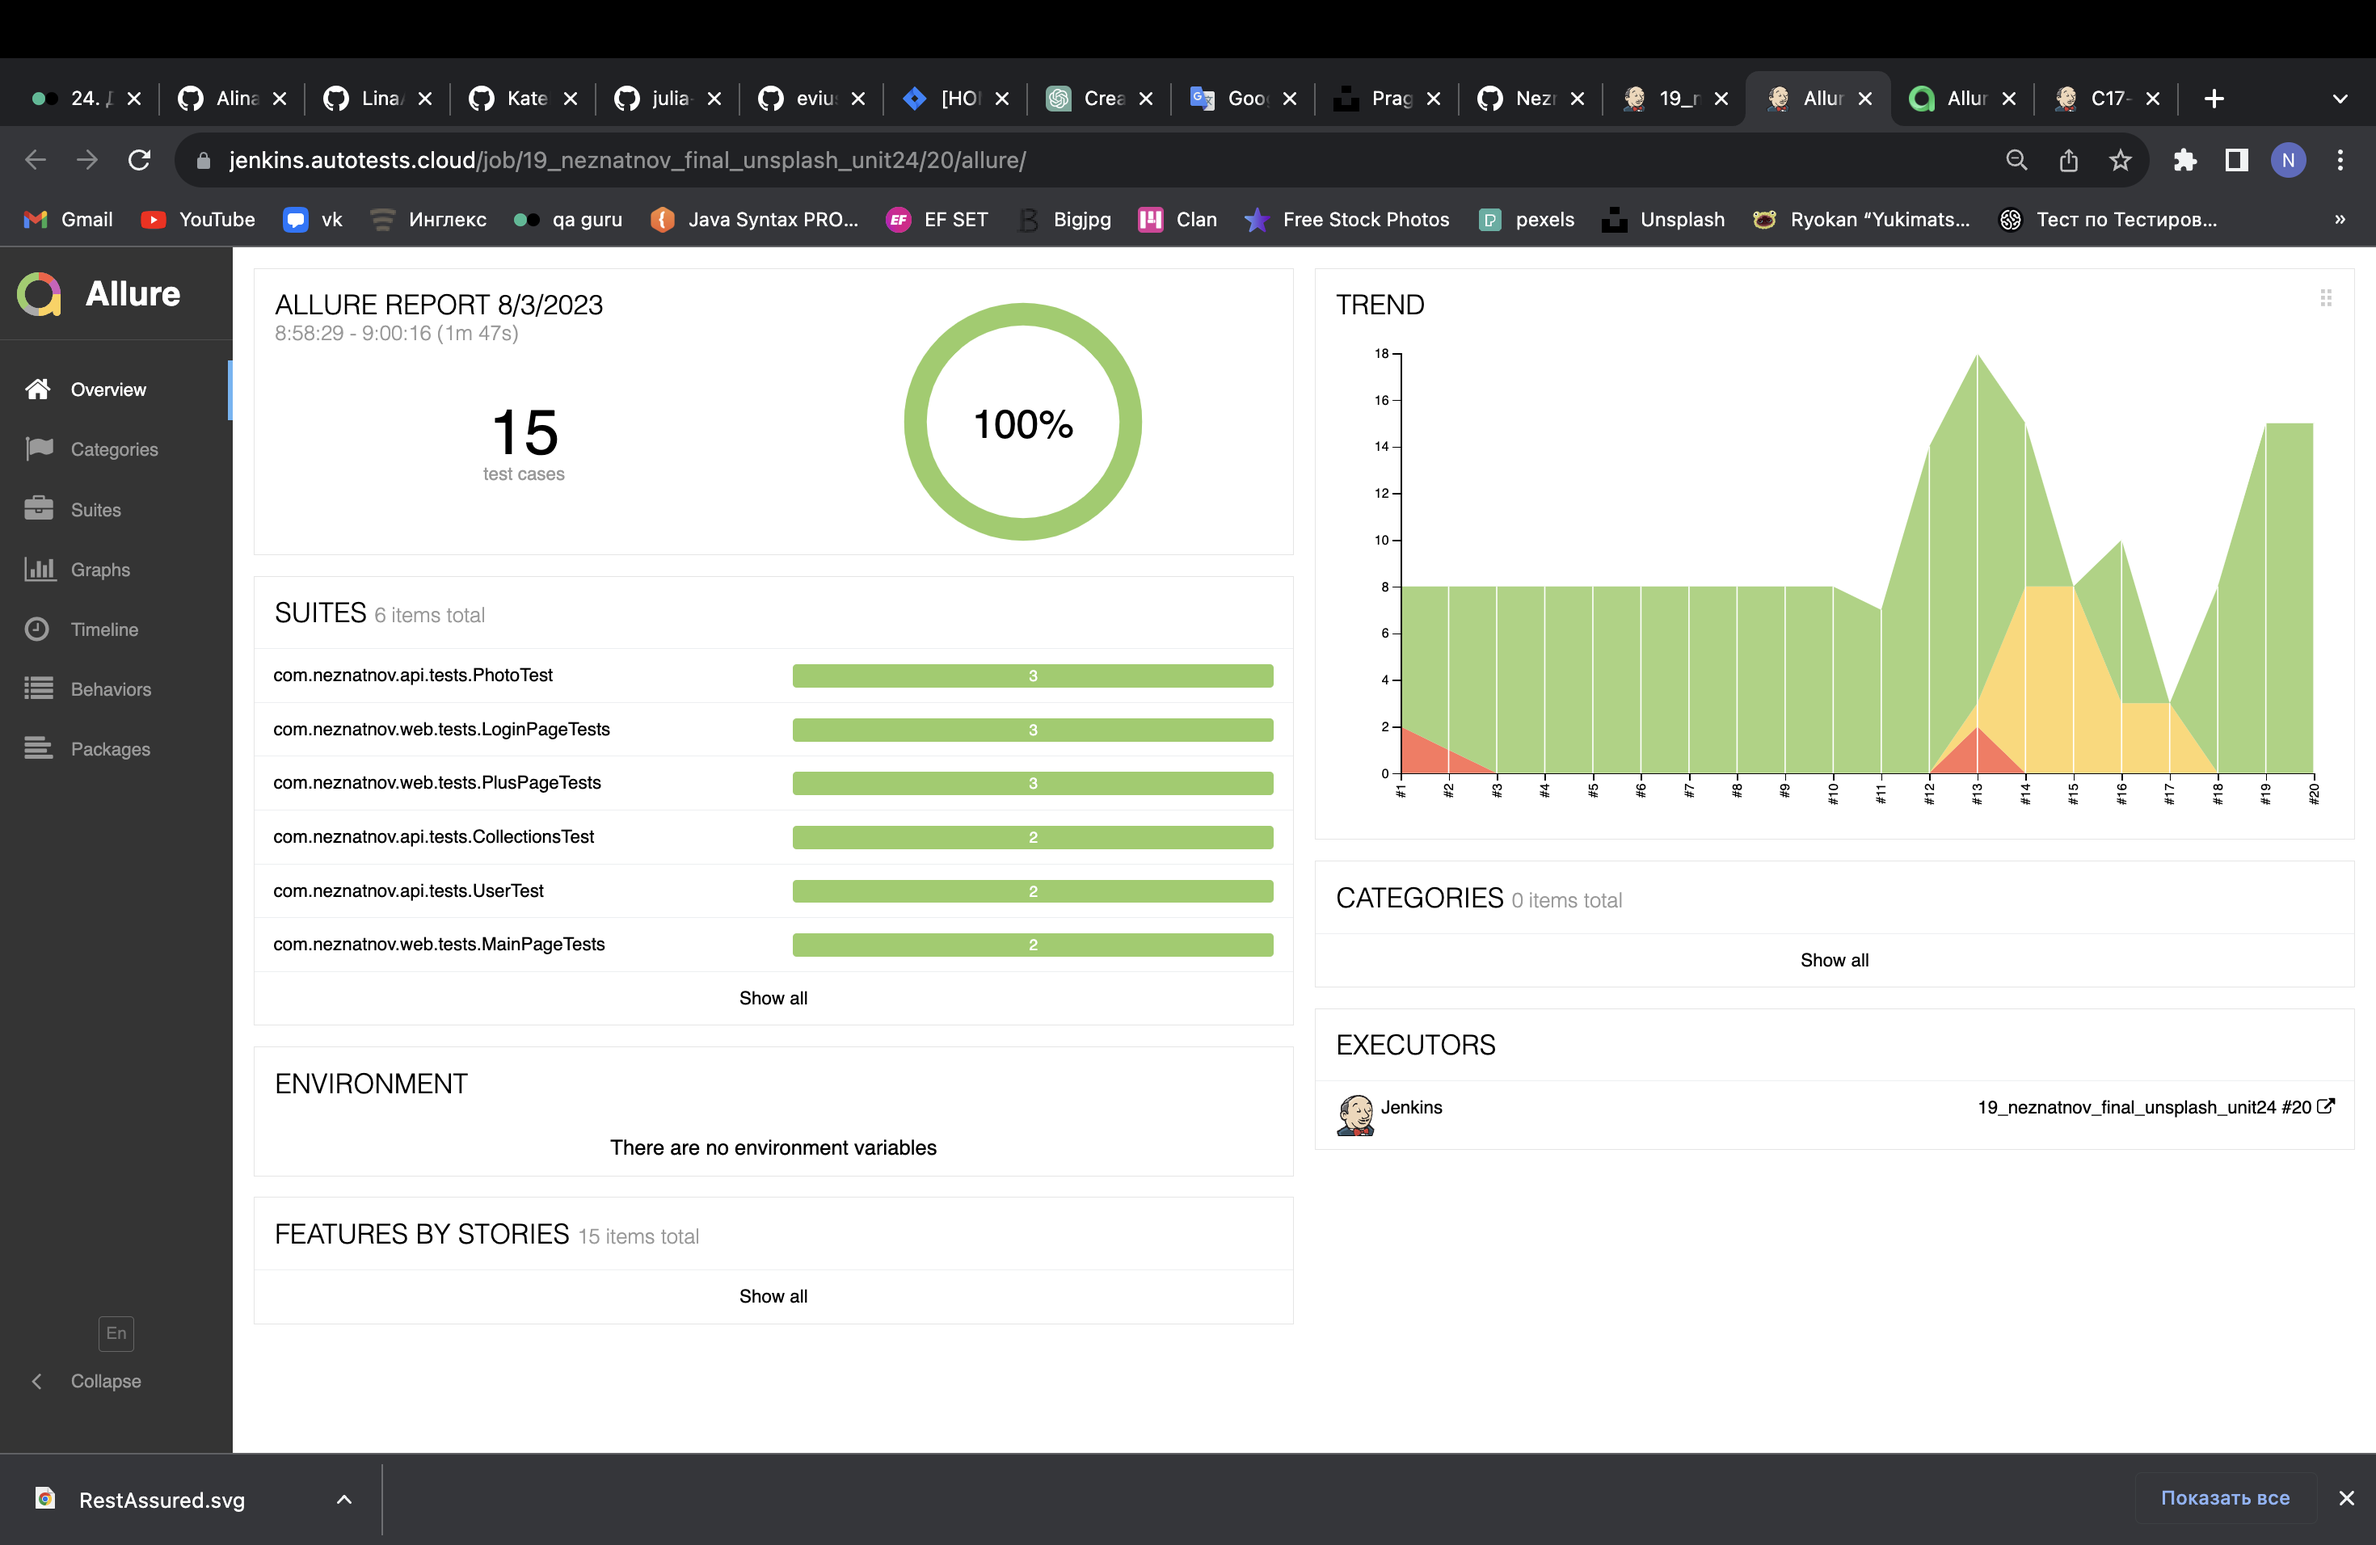
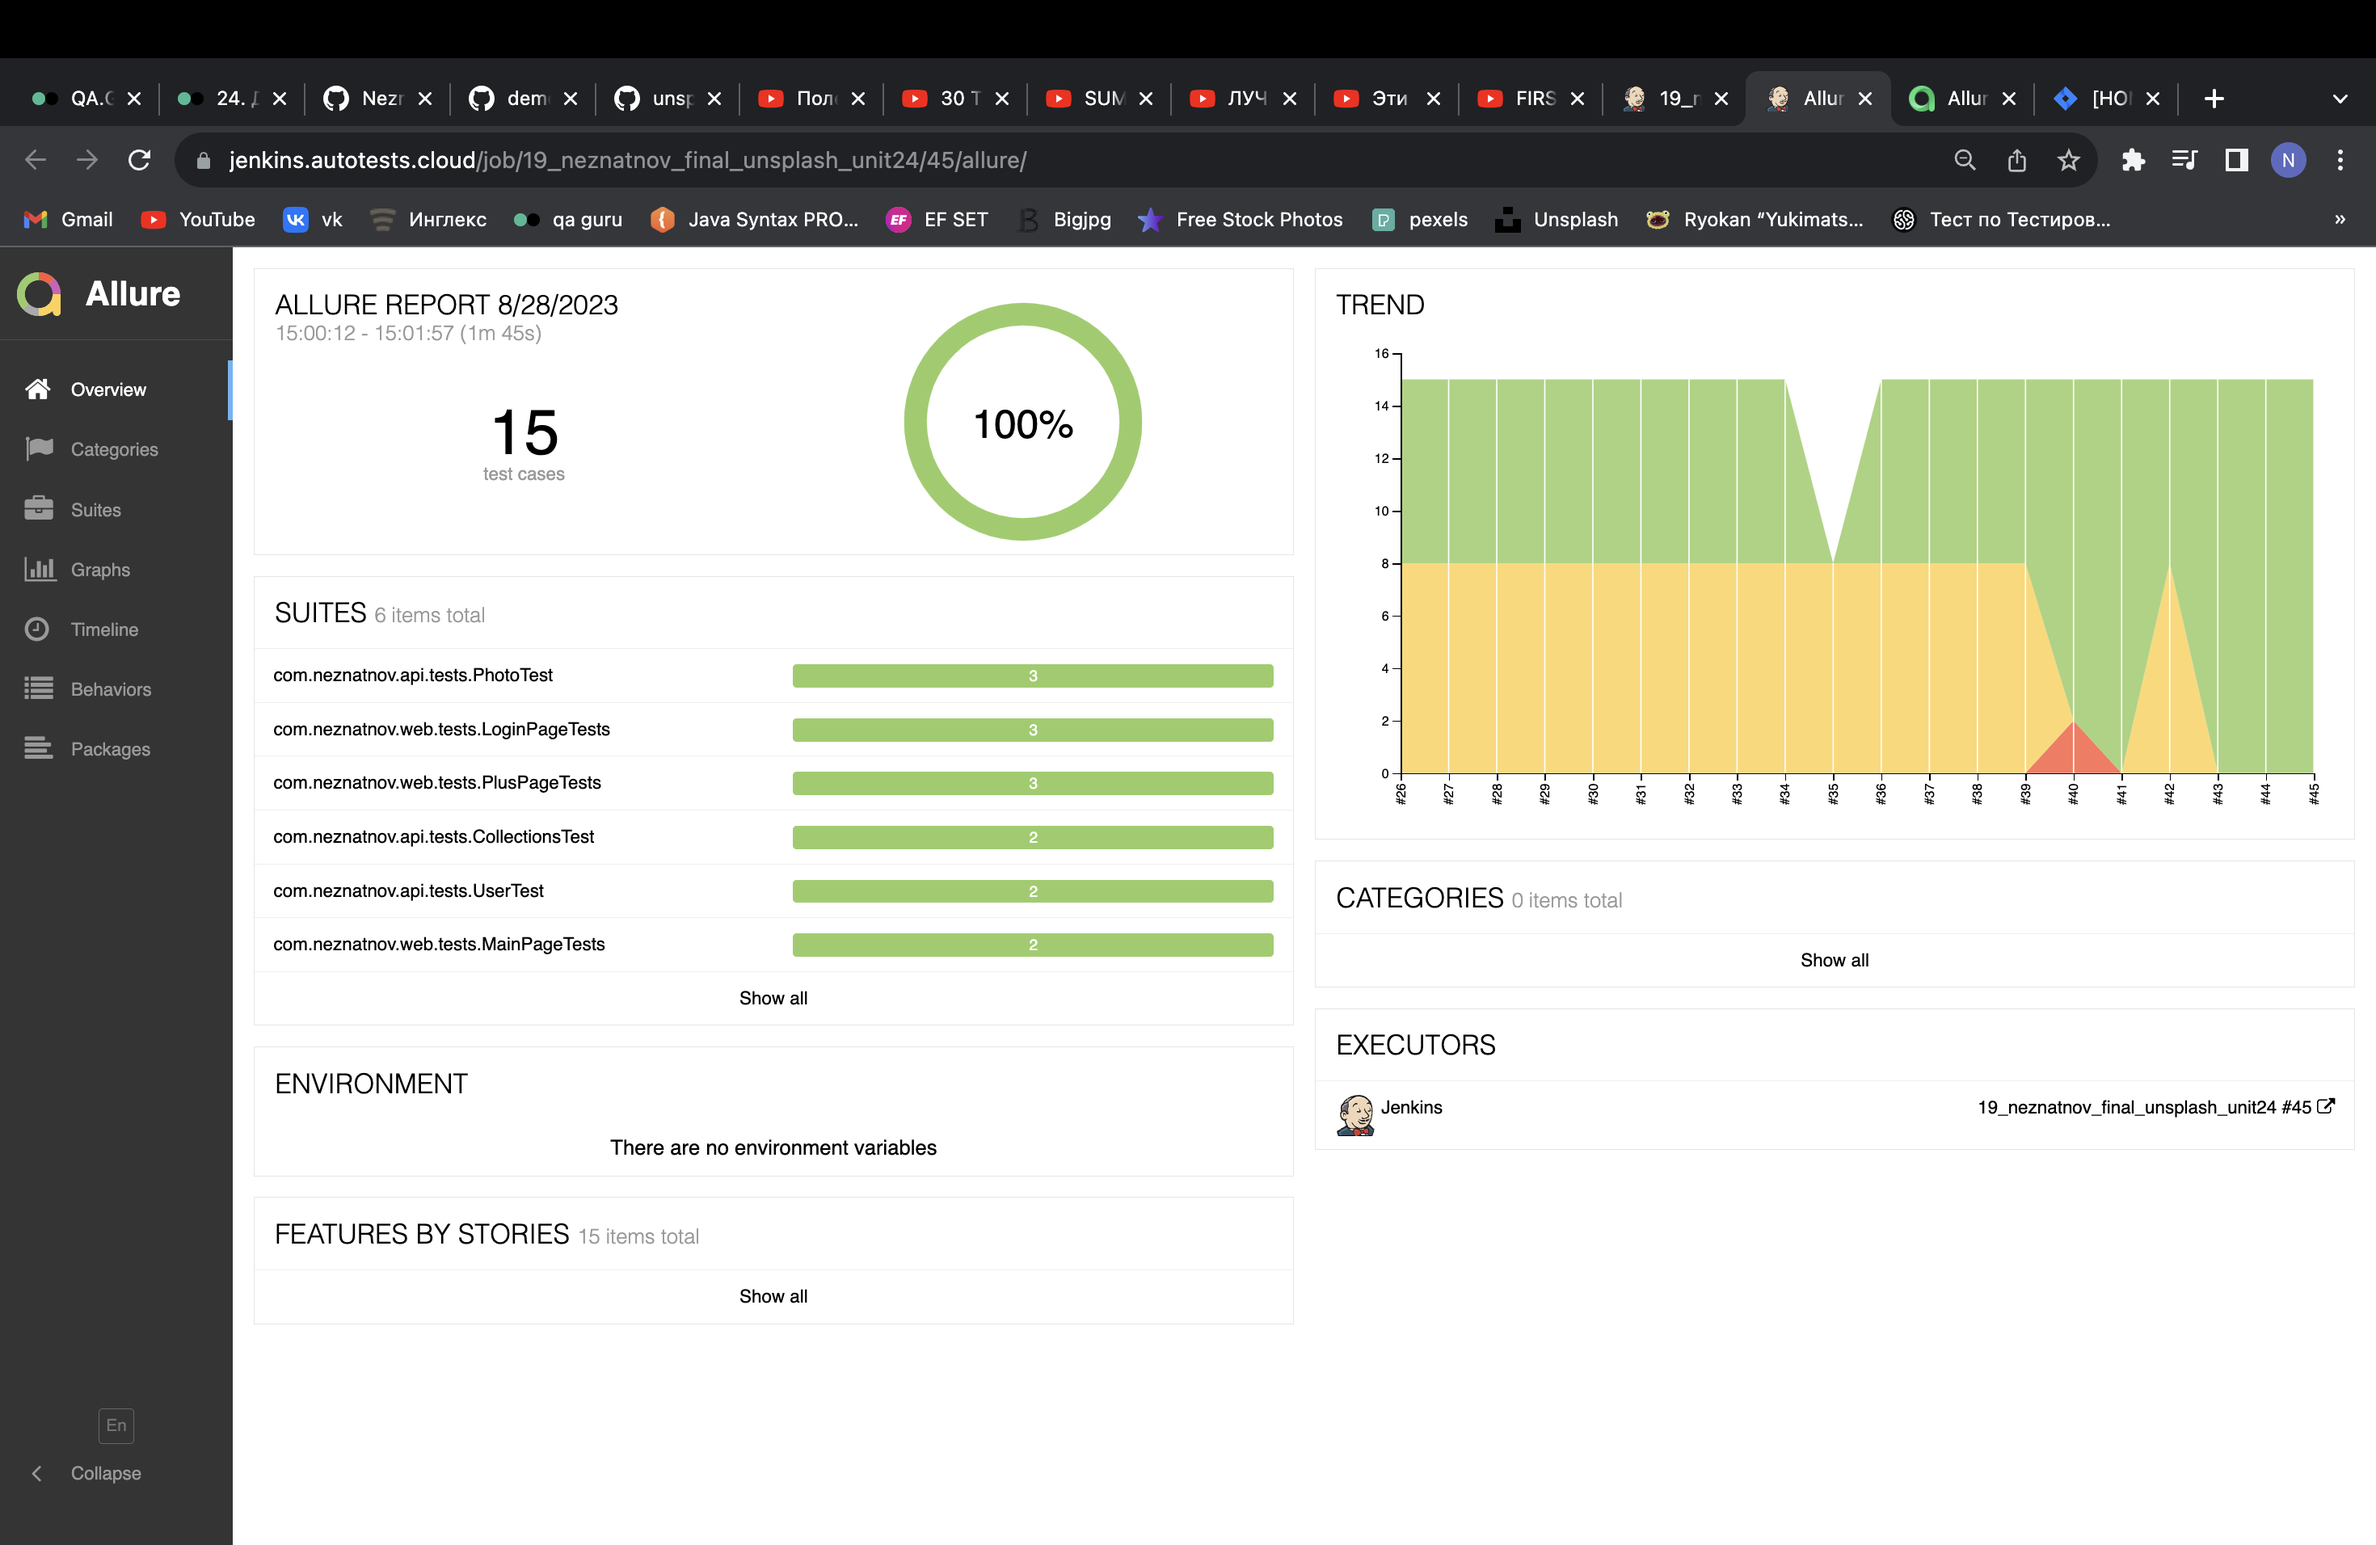
updated readme

diff --git a/README.md b/README.md
@@ -72,7 +72,7 @@ ${TASK}
 >- <code>BROWSER_VERSION</code> - the browser version in which the tests will be run.(The default is 100.00)
 >- <code>BROWSER_SIZE</code> - size of the browser window (1920x1080 is set by default)
 >- <code>BASE_URL</code> - the base URL of the web application under test
->- <code>env</code> - quick selection of remote test launch configuration.
+>- <code>env</code> - quick remote test launch configuration.
 
 ## Running tests in Jenkins
 To run tests in Jenkins, follow these steps:
@@ -85,7 +85,7 @@ To run tests in Jenkins, follow these steps:
   <img src="readme/screenshots/jenkins.png" alt="Jenkins" width="900">
 </div>
 
-## Test results report in [Allure Report](https://jenkins.autotests.cloud/job/19_neznatnov_final_unsplash_unit24/20/allure/)
+## Test results report in [Allure Report](https://jenkins.autotests.cloud/job/19_neznatnov_final_unsplash_unit24/45/allure/)
 The report of the test execution includes:
 - Test steps
 - Screenshot of the page on the last test step
